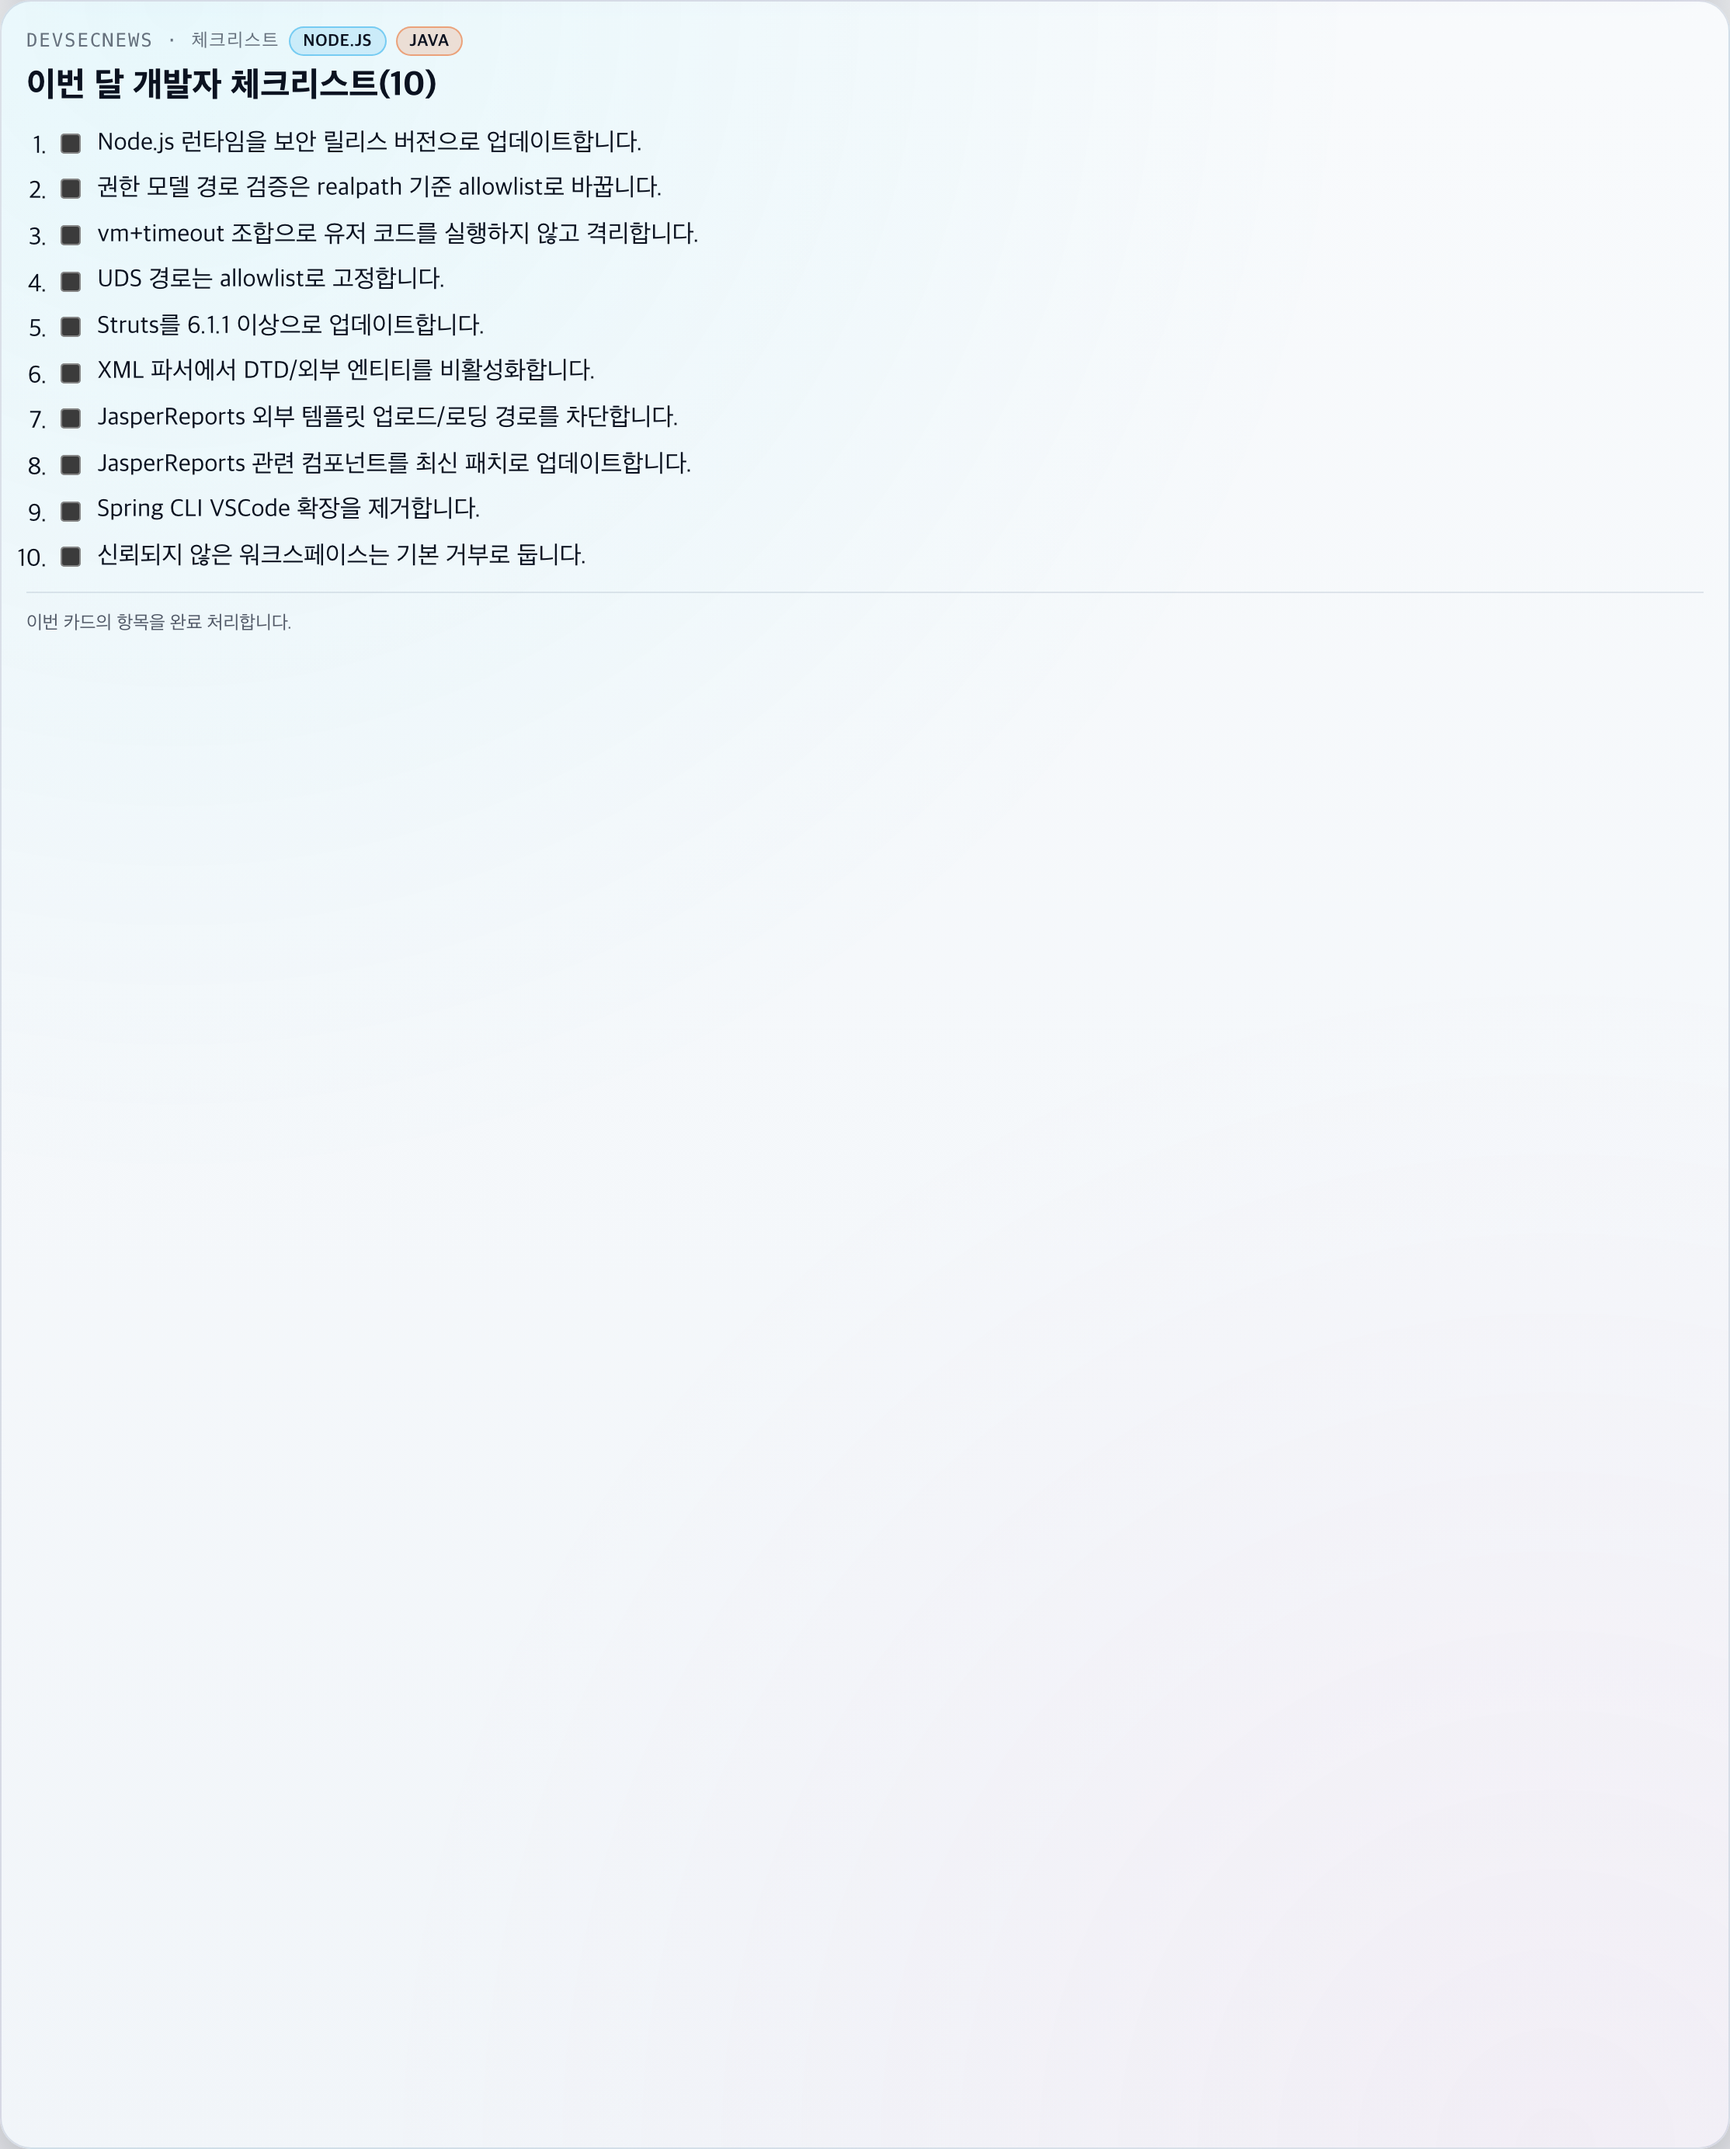
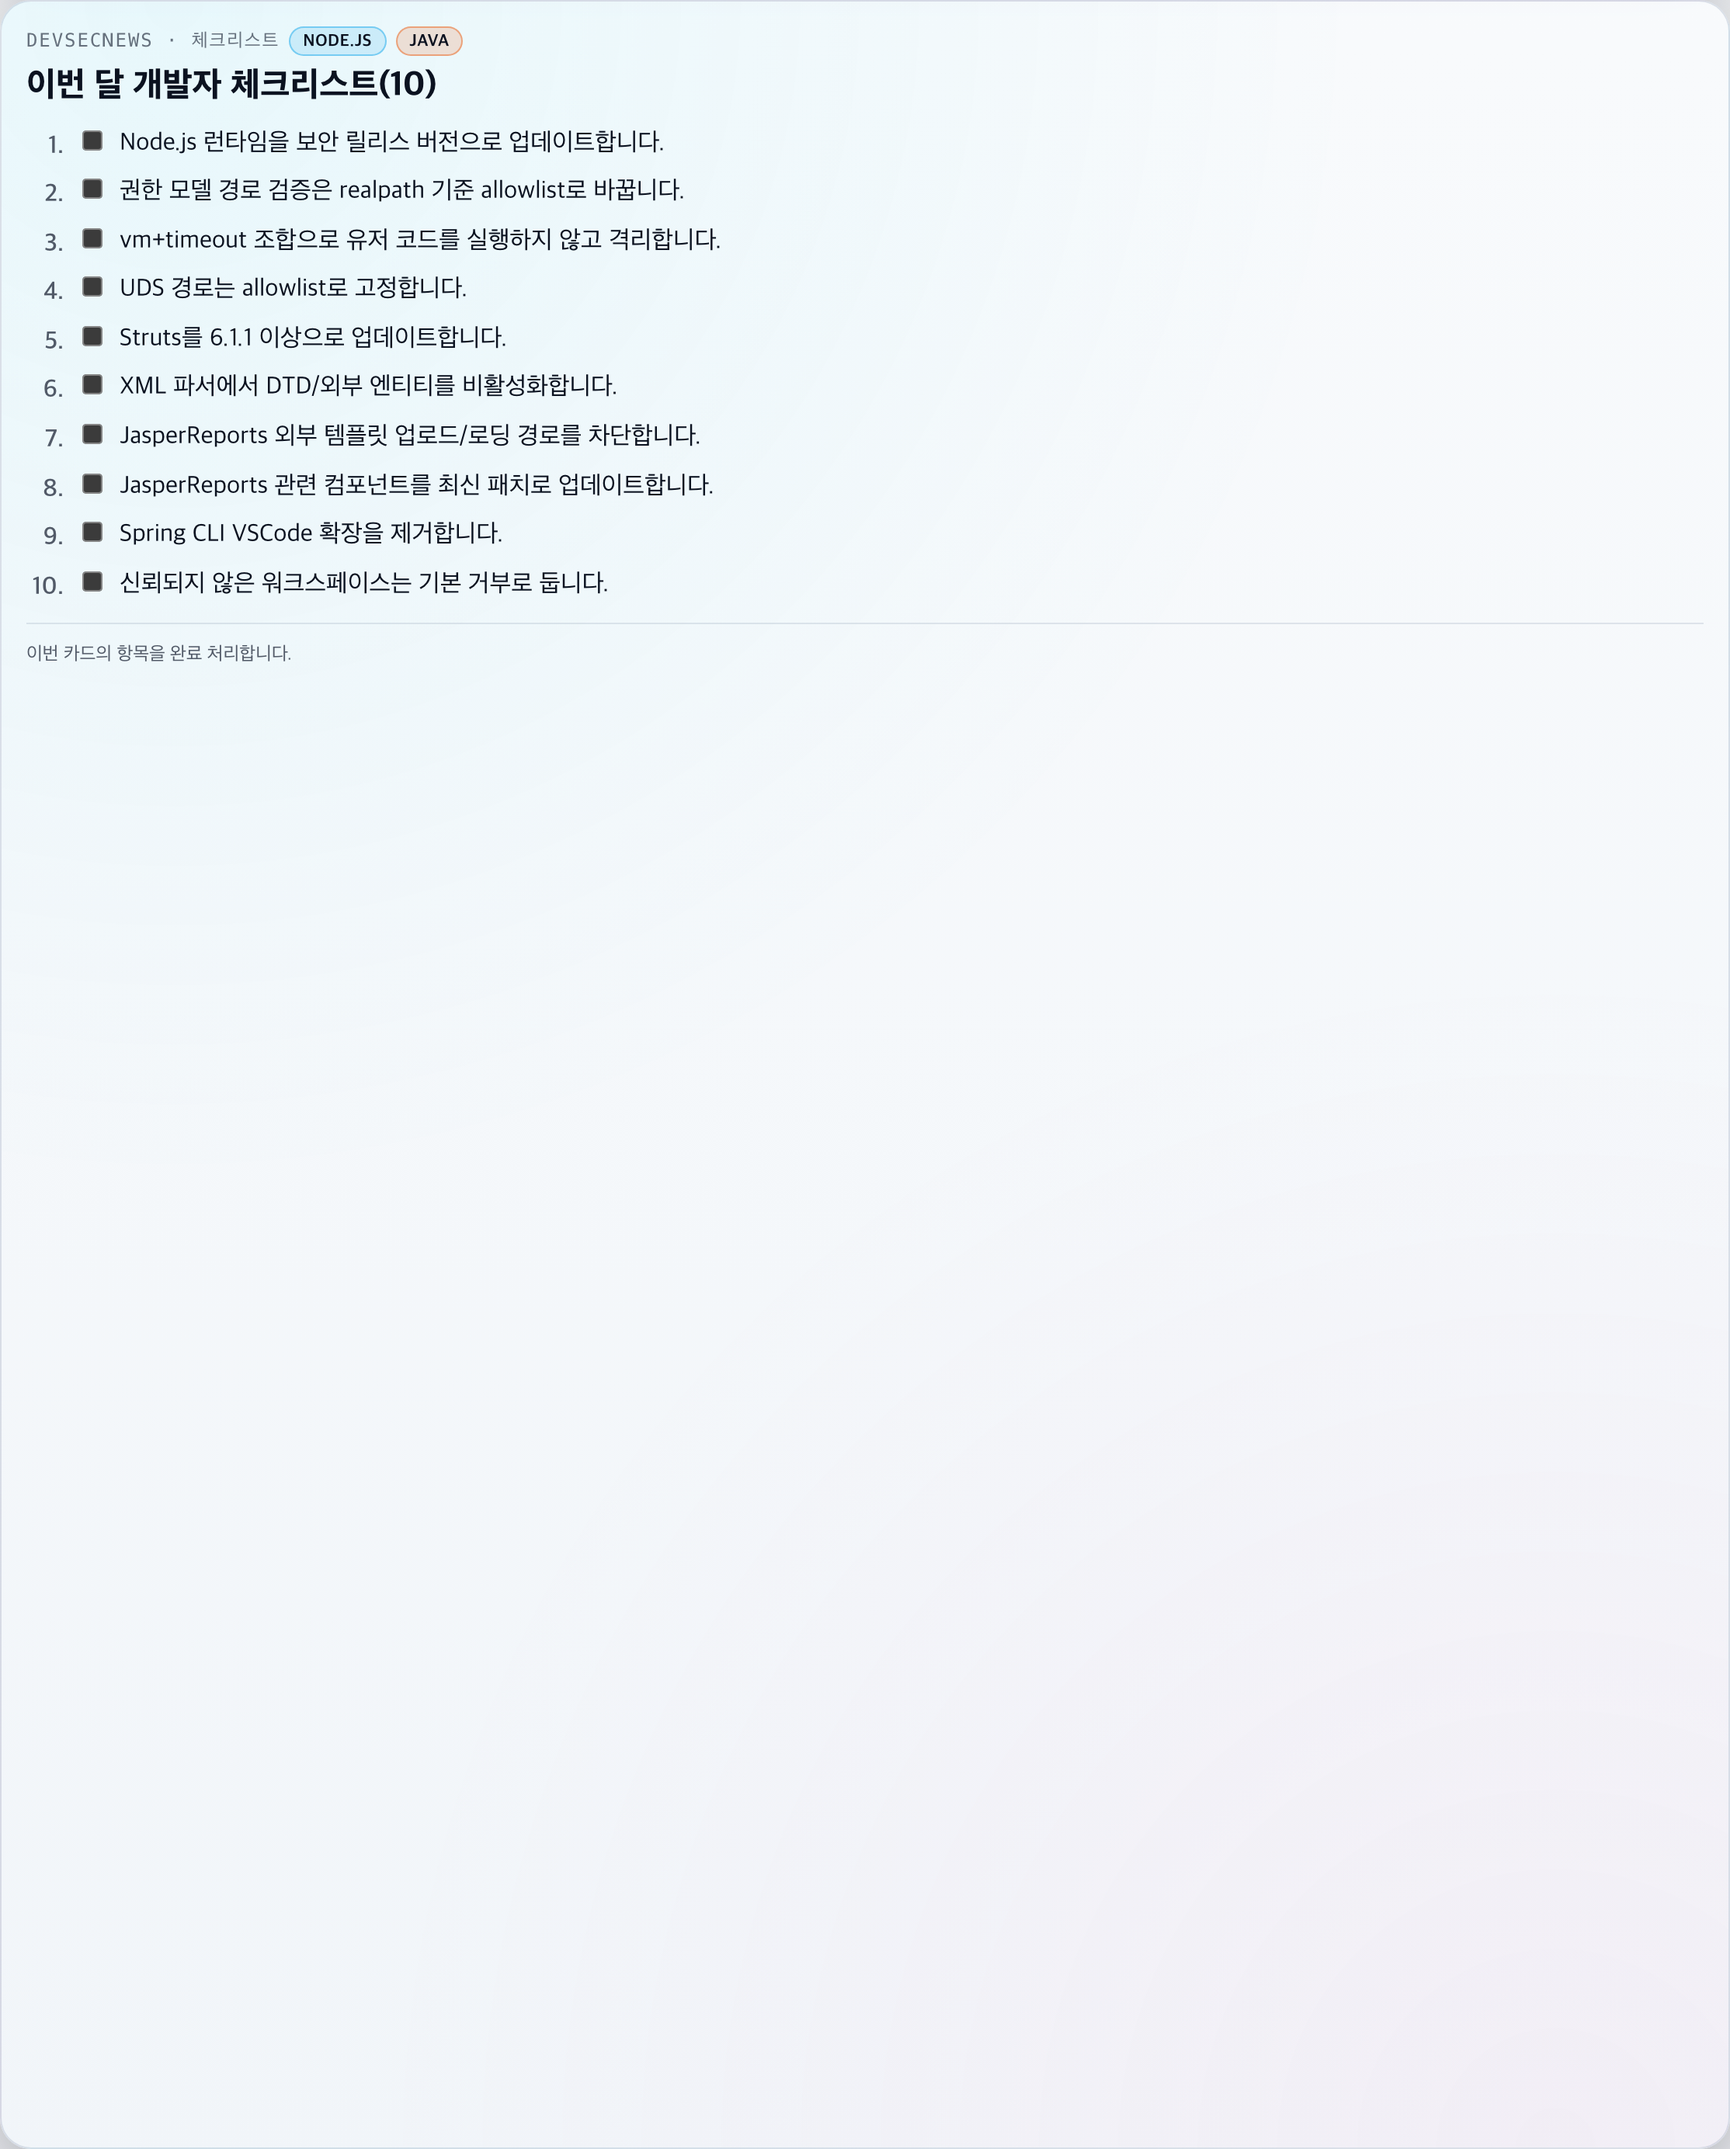
Fix checklist layout overlap

Changed region(s): [[0.0, 0.0621, 0.4026, 0.3107]]

diff --git a/cards/devsecnews-2026-01-node-java/cards.html b/cards/devsecnews-2026-01-node-java/cards.html
@@ -211,13 +211,30 @@
   .card-foot a:hover { text-decoration: underline; }
   .checklist {
     margin: 0;
-    padding-left: 1.1em;
+    padding-left: 0;
     display: grid;
     gap: 8px;
+    list-style: none;
+    counter-reset: checklist;
   }
-  .checklist li { line-height: 1.35; }
-  .checklist label { display: flex; align-items: center; gap: 8px; }
-  .checklist input { accent-color: #0ea5e9; }
+  .checklist li {
+    line-height: 1.35;
+    counter-increment: checklist;
+    display: grid;
+    grid-template-columns: 24px 20px 1fr;
+    gap: 8px;
+    align-items: start;
+  }
+  .checklist li::before {
+    content: counter(checklist) ".";
+    font-weight: 600;
+    color: rgba(15,23,42,0.7);
+    text-align: right;
+    padding-top: 2px;
+  }
+  .checklist label { display: contents; }
+  .checklist input { grid-column: 2; margin-top: 2px; accent-color: #0ea5e9; }
+  .check-text { grid-column: 3; }
   .card--checklist .card-title { margin-bottom: 6px; }
   body.export .page-header { display: none; }
   body.export .deck { padding-top: 24px; }
@@ -415,7 +432,7 @@
       
     <h2 id="card-7-title" class="card-title">이번 달 개발자 체크리스트(10)</h2>
   </header>
-  <ol class="checklist"><li><label><input type="checkbox" /> Node.js 런타임을 보안 릴리스 버전으로 업데이트합니다.</label></li><li><label><input type="checkbox" /> 권한 모델 경로 검증은 realpath 기준 allowlist로 바꿉니다.</label></li><li><label><input type="checkbox" /> vm+timeout 조합으로 유저 코드를 실행하지 않고 격리합니다.</label></li><li><label><input type="checkbox" /> UDS 경로는 allowlist로 고정합니다.</label></li><li><label><input type="checkbox" /> Struts를 6.1.1 이상으로 업데이트합니다.</label></li><li><label><input type="checkbox" /> XML 파서에서 DTD/외부 엔티티를 비활성화합니다.</label></li><li><label><input type="checkbox" /> JasperReports 외부 템플릿 업로드/로딩 경로를 차단합니다.</label></li><li><label><input type="checkbox" /> JasperReports 관련 컴포넌트를 최신 패치로 업데이트합니다.</label></li><li><label><input type="checkbox" /> Spring CLI VSCode 확장을 제거합니다.</label></li><li><label><input type="checkbox" /> 신뢰되지 않은 워크스페이스는 기본 거부로 둡니다.</label></li></ol>
+  <ol class="checklist"><li><label><input type="checkbox" /><span class="check-text">Node.js 런타임을 보안 릴리스 버전으로 업데이트합니다.</span></label></li><li><label><input type="checkbox" /><span class="check-text">권한 모델 경로 검증은 realpath 기준 allowlist로 바꿉니다.</span></label></li><li><label><input type="checkbox" /><span class="check-text">vm+timeout 조합으로 유저 코드를 실행하지 않고 격리합니다.</span></label></li><li><label><input type="checkbox" /><span class="check-text">UDS 경로는 allowlist로 고정합니다.</span></label></li><li><label><input type="checkbox" /><span class="check-text">Struts를 6.1.1 이상으로 업데이트합니다.</span></label></li><li><label><input type="checkbox" /><span class="check-text">XML 파서에서 DTD/외부 엔티티를 비활성화합니다.</span></label></li><li><label><input type="checkbox" /><span class="check-text">JasperReports 외부 템플릿 업로드/로딩 경로를 차단합니다.</span></label></li><li><label><input type="checkbox" /><span class="check-text">JasperReports 관련 컴포넌트를 최신 패치로 업데이트합니다.</span></label></li><li><label><input type="checkbox" /><span class="check-text">Spring CLI VSCode 확장을 제거합니다.</span></label></li><li><label><input type="checkbox" /><span class="check-text">신뢰되지 않은 워크스페이스는 기본 거부로 둡니다.</span></label></li></ol>
   <footer class="card-foot">
     <span>이번 카드의 항목을 완료 처리합니다.</span>
   </footer>

diff --git a/docs/cards/devsecnews-2026-01-node-java/cards.html b/docs/cards/devsecnews-2026-01-node-java/cards.html
@@ -211,13 +211,30 @@
   .card-foot a:hover { text-decoration: underline; }
   .checklist {
     margin: 0;
-    padding-left: 1.1em;
+    padding-left: 0;
     display: grid;
     gap: 8px;
+    list-style: none;
+    counter-reset: checklist;
   }
-  .checklist li { line-height: 1.35; }
-  .checklist label { display: flex; align-items: center; gap: 8px; }
-  .checklist input { accent-color: #0ea5e9; }
+  .checklist li {
+    line-height: 1.35;
+    counter-increment: checklist;
+    display: grid;
+    grid-template-columns: 24px 20px 1fr;
+    gap: 8px;
+    align-items: start;
+  }
+  .checklist li::before {
+    content: counter(checklist) ".";
+    font-weight: 600;
+    color: rgba(15,23,42,0.7);
+    text-align: right;
+    padding-top: 2px;
+  }
+  .checklist label { display: contents; }
+  .checklist input { grid-column: 2; margin-top: 2px; accent-color: #0ea5e9; }
+  .check-text { grid-column: 3; }
   .card--checklist .card-title { margin-bottom: 6px; }
   body.export .page-header { display: none; }
   body.export .deck { padding-top: 24px; }
@@ -415,7 +432,7 @@
       
     <h2 id="card-7-title" class="card-title">이번 달 개발자 체크리스트(10)</h2>
   </header>
-  <ol class="checklist"><li><label><input type="checkbox" /> Node.js 런타임을 보안 릴리스 버전으로 업데이트합니다.</label></li><li><label><input type="checkbox" /> 권한 모델 경로 검증은 realpath 기준 allowlist로 바꿉니다.</label></li><li><label><input type="checkbox" /> vm+timeout 조합으로 유저 코드를 실행하지 않고 격리합니다.</label></li><li><label><input type="checkbox" /> UDS 경로는 allowlist로 고정합니다.</label></li><li><label><input type="checkbox" /> Struts를 6.1.1 이상으로 업데이트합니다.</label></li><li><label><input type="checkbox" /> XML 파서에서 DTD/외부 엔티티를 비활성화합니다.</label></li><li><label><input type="checkbox" /> JasperReports 외부 템플릿 업로드/로딩 경로를 차단합니다.</label></li><li><label><input type="checkbox" /> JasperReports 관련 컴포넌트를 최신 패치로 업데이트합니다.</label></li><li><label><input type="checkbox" /> Spring CLI VSCode 확장을 제거합니다.</label></li><li><label><input type="checkbox" /> 신뢰되지 않은 워크스페이스는 기본 거부로 둡니다.</label></li></ol>
+  <ol class="checklist"><li><label><input type="checkbox" /><span class="check-text">Node.js 런타임을 보안 릴리스 버전으로 업데이트합니다.</span></label></li><li><label><input type="checkbox" /><span class="check-text">권한 모델 경로 검증은 realpath 기준 allowlist로 바꿉니다.</span></label></li><li><label><input type="checkbox" /><span class="check-text">vm+timeout 조합으로 유저 코드를 실행하지 않고 격리합니다.</span></label></li><li><label><input type="checkbox" /><span class="check-text">UDS 경로는 allowlist로 고정합니다.</span></label></li><li><label><input type="checkbox" /><span class="check-text">Struts를 6.1.1 이상으로 업데이트합니다.</span></label></li><li><label><input type="checkbox" /><span class="check-text">XML 파서에서 DTD/외부 엔티티를 비활성화합니다.</span></label></li><li><label><input type="checkbox" /><span class="check-text">JasperReports 외부 템플릿 업로드/로딩 경로를 차단합니다.</span></label></li><li><label><input type="checkbox" /><span class="check-text">JasperReports 관련 컴포넌트를 최신 패치로 업데이트합니다.</span></label></li><li><label><input type="checkbox" /><span class="check-text">Spring CLI VSCode 확장을 제거합니다.</span></label></li><li><label><input type="checkbox" /><span class="check-text">신뢰되지 않은 워크스페이스는 기본 거부로 둡니다.</span></label></li></ol>
   <footer class="card-foot">
     <span>이번 카드의 항목을 완료 처리합니다.</span>
   </footer>
